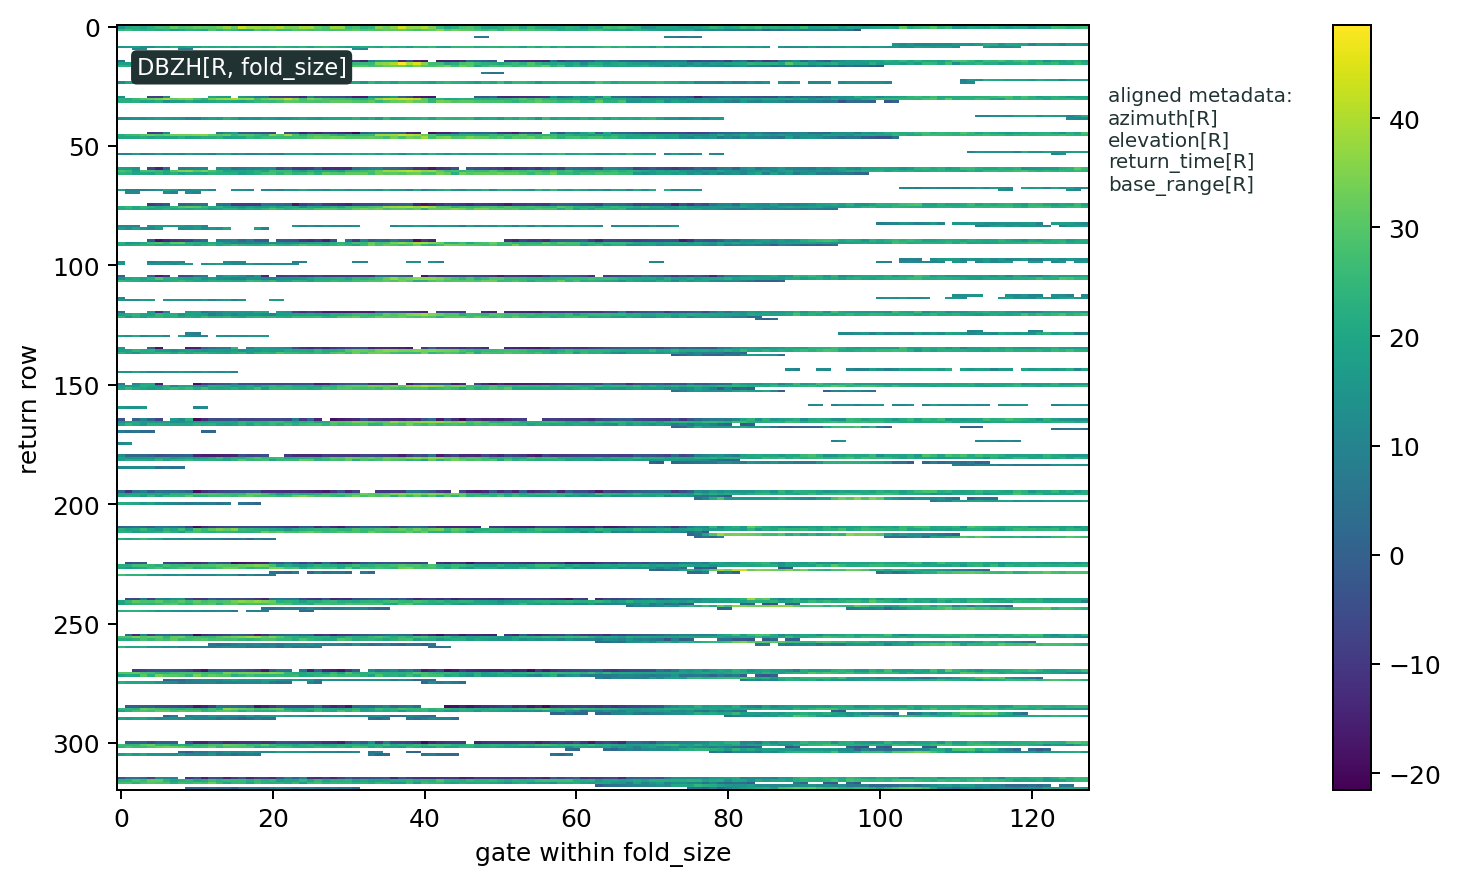
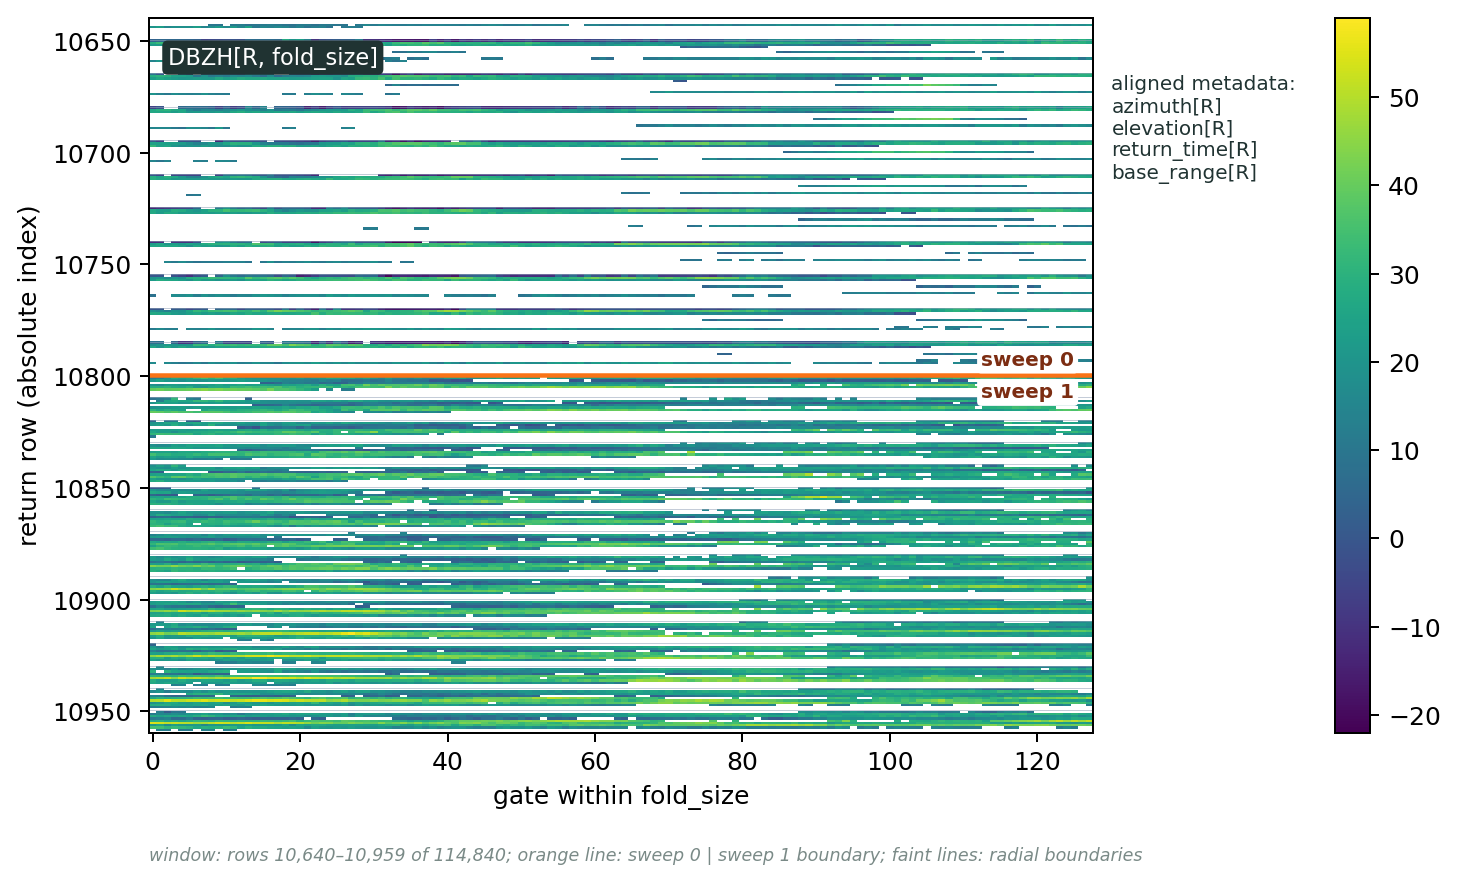
fix(docs): make raystack explainer panels match the guide
The ML tensor panel sampled rows 0-320, which sit entirely inside sweep 0,
so the "horizontal lines mark sweep boundaries" claim in the guide was never
actually shown. It now samples a 320-row window centred on the end of sweep 0,
draws and labels that boundary, marks radial boundaries faintly, and uses
absolute return-row indices on the y axis.

The fold-radial panel labelled the last gate as 1919 (the padded width) while
its header said 1,832 real gates, and the caption claimed the gray cells were
trailing padding when most of them are missing or below-threshold gates. The
strip now stops at the last real gate, the padding is drawn as an explicit
hatched region in both views, and the caption distinguishes padding from NaN
data gates.

Also reference the composite raystack-explainer.png from the guide (it was
committed and regenerated but never displayed), and drop the unused, stale
panel titles from the panel spec tuples.

diff --git a/docs/examples/raystack_explainer.py b/docs/examples/raystack_explainer.py
@@ -30,6 +30,7 @@ from numpy.typing import NDArray
 
 DEFAULT_SOURCE = "s3://unidata-nexrad-level2/2024/07/02/KABR/KABR20240702_000016_V06"
 MOMENT_NAMES = ("DBZH", "VRADH", "WRADH", "ZDR", "PHIDP", "RHOHV", "CCORH")
+PAD_COLOR = "#b45309"
 
 
 @dataclass(frozen=True)
@@ -228,18 +229,25 @@ def draw_radial_folding(
     cmap = plt.get_cmap("viridis").copy()
     cmap.set_bad(color="#e6ebe9")
 
+    n_total = flattened.shape[1]
+    # Gates >= actual_gates exist only to pad the final return row to fold_size.
+    pad_start_col = actual_gates % fold_size
+    has_padding = actual_gates < n_total
+
     strip_y0, strip_h = 0.78, 0.10
+    x_strip_pad = 0.05 + actual_gates / n_total * 0.9
     ax.imshow(
-        flattened,
-        extent=(0.05, 0.95, strip_y0, strip_y0 + strip_h),
+        flattened[:, :actual_gates],
+        extent=(0.05, x_strip_pad, strip_y0, strip_y0 + strip_h),
         aspect="auto",
         cmap=cmap,
         interpolation="nearest",
         zorder=2,
     )
-    n_total = flattened.shape[1]
     for chunk in range(1, n_chunks):
         x_pos = 0.05 + (chunk * fold_size) / n_total * 0.9
+        if x_pos >= x_strip_pad:
+            continue
         ax.plot(
             [x_pos, x_pos],
             [strip_y0, strip_y0 + strip_h],
@@ -247,6 +255,28 @@ def draw_radial_folding(
             linewidth=0.6,
             alpha=0.85,
             zorder=3,
+        )
+    if has_padding:
+        ax.add_patch(
+            Rectangle(
+                (x_strip_pad, strip_y0),
+                0.95 - x_strip_pad,
+                strip_h,
+                linewidth=1.0,
+                edgecolor=PAD_COLOR,
+                facecolor="none",
+                hatch="///",
+                zorder=4,
+            )
+        )
+        ax.text(
+            (x_strip_pad + 0.95) / 2,
+            strip_y0 - 0.04,
+            "pad",
+            fontsize=7,
+            color=PAD_COLOR,
+            ha="center",
+            va="top",
         )
     ax.add_patch(
         Rectangle(
@@ -256,7 +286,7 @@ def draw_radial_folding(
             linewidth=1.0,
             edgecolor="#315452",
             facecolor="none",
-            zorder=4,
+            zorder=5,
         )
     )
     ax.text(
@@ -268,9 +298,9 @@ def draw_radial_folding(
     )
     ax.text(0.05, strip_y0 - 0.04, "gate 0", fontsize=7, color="#50615f", ha="left", va="top")
     ax.text(
-        0.95,
+        x_strip_pad,
         strip_y0 - 0.04,
-        f"gate {n_total - 1}",
+        f"gate {actual_gates - 1:,}",
         fontsize=7,
         color="#50615f",
         ha="right",
@@ -287,10 +317,11 @@ def draw_radial_folding(
         va="center",
     )
 
-    stack_top, stack_h = 0.50, 0.40
+    stack_top, stack_h = 0.50, 0.36
+    stack_bottom = stack_top - stack_h
     ax.imshow(
         radial,
-        extent=(0.05, 0.95, stack_top - stack_h, stack_top),
+        extent=(0.05, 0.95, stack_bottom, stack_top),
         aspect="auto",
         cmap=cmap,
         interpolation="nearest",
@@ -328,13 +359,39 @@ def draw_radial_folding(
         fontsize=9,
         color="#203332",
     )
+
+    if has_padding:
+        x_pad = 0.05 + pad_start_col / fold_size * 0.9
+        ax.add_patch(
+            Rectangle(
+                (x_pad, stack_bottom),
+                0.95 - x_pad,
+                cell_h,
+                linewidth=1.0,
+                edgecolor=PAD_COLOR,
+                facecolor="none",
+                hatch="///",
+                zorder=5,
+            )
+        )
+        ax.annotate(
+            f"padding: last {n_total - actual_gates} cells of return {n_chunks - 1}",
+            xy=((x_pad + 0.95) / 2, stack_bottom),
+            xytext=((x_pad + 0.95) / 2, stack_bottom - 0.06),
+            ha="center",
+            va="top",
+            fontsize=7,
+            color=PAD_COLOR,
+            arrowprops={"arrowstyle": "-|>", "color": PAD_COLOR, "linewidth": 0.9},
+        )
     ax.text(
-        0.95,
-        stack_top - stack_h - 0.04,
-        "trailing pad cells (NaN) shown in gray",
+        0.05,
+        stack_bottom - 0.115,
+        "hatched: trailing padding past the last real gate; "
+        "gray: NaN gates (missing or below threshold)",
         fontsize=7,
         color="#7a8a87",
-        ha="right",
+        ha="left",
         va="top",
         style="italic",
     )
@@ -395,27 +452,74 @@ def draw_flat_schema(
 
 def draw_ml_tensor(
     ax: Axes,
+    sweeps: xr.Dataset,
     returns: xr.Dataset,
     moment: str,
     offsets: NDArray[np.int64],
     *,
     show_title: bool = True,
+    window_rows: int = 320,
 ) -> None:
-    """Draw a real moment matrix sample and its aligned metadata."""
+    """Draw a real moment matrix window straddling a sweep boundary."""
     if show_title:
         ax.set_title("4. ML tensor", loc="left", fontsize=12, fontweight="bold")
     data = np.asarray(returns[moment].values, dtype=np.float32)
-    sample_rows = min(320, data.shape[0])
-    sample_cols = min(returns.sizes["range"], data.shape[1])
-    sample = data[:sample_rows, :sample_cols]
+    n_rows = data.shape[0]
+    fold_size = min(returns.sizes["range"], data.shape[1])
 
-    im = ax.imshow(sample, aspect="auto", interpolation="nearest", cmap="viridis")
-    for offset in offsets:
-        if 0 < offset < sample_rows:
-            ax.axhline(offset - 0.5, color="white", linewidth=0.6, alpha=0.8)
+    # Centre the window on a real sweep boundary so the panel shows one.
+    boundary = next(
+        (int(off) for off in offsets[1:-1] if 0 < int(off) < n_rows),
+        None,
+    )
+    window = min(window_rows, n_rows)
+    if boundary is None:
+        row_start = 0
+    else:
+        row_start = min(max(0, boundary - window // 2), n_rows - window)
+    row_stop = row_start + window
+    sample = data[row_start:row_stop, :fold_size]
+
+    im = ax.imshow(
+        sample,
+        aspect="auto",
+        interpolation="nearest",
+        cmap="viridis",
+        extent=(-0.5, fold_size - 0.5, row_stop - 0.5, row_start - 0.5),
+    )
+
+    # Faint lines every ceil(max_gates / fold_size) rows: one physical radial.
+    max_gates = np.asarray(sweeps["max_gates"].values, dtype=np.int64)
+    for s_idx in range(max_gates.size):
+        chunks = max(1, int(np.ceil(max_gates[s_idx] / fold_size)))
+        s_start, s_stop = int(offsets[s_idx]), int(offsets[s_idx + 1])
+        first = s_start + chunks * int(np.ceil(max(row_start - s_start, 0) / chunks))
+        for row in range(first, min(s_stop, row_stop), chunks):
+            if row_start < row < row_stop:
+                ax.axhline(row - 0.5, color="#94a3b8", linewidth=0.4, alpha=0.55)
+
+    sweep_idx = None
+    if boundary is not None:
+        sweep_idx = int(np.searchsorted(offsets, boundary)) - 1
+        ax.axhline(boundary - 0.5, color="#f97316", linewidth=1.8)
+        for label, row_offset, valign in (
+            (f"sweep {sweep_idx}", -3, "bottom"),
+            (f"sweep {sweep_idx + 1}", 3, "top"),
+        ):
+            ax.text(
+                fold_size - 3,
+                boundary + row_offset,
+                label,
+                ha="right",
+                va=valign,
+                fontsize=8,
+                fontweight="bold",
+                color="#7c2d12",
+                bbox={"boxstyle": "round,pad=0.2", "facecolor": "white", "edgecolor": "none"},
+            )
 
     ax.set_xlabel("gate within fold_size")
-    ax.set_ylabel("return row")
+    ax.set_ylabel("return row (absolute index)")
     ax.text(
         1.02,
         0.92,
@@ -425,6 +529,23 @@ def draw_ml_tensor(
         va="top",
         fontsize=8,
         color="#203332",
+    )
+    boundary_note = (
+        f"orange line: sweep {sweep_idx} | sweep {sweep_idx + 1} boundary; "
+        if sweep_idx is not None
+        else ""
+    )
+    ax.text(
+        0.0,
+        -0.16,
+        f"window: rows {row_start:,}–{row_stop - 1:,} of {n_rows:,}; "
+        f"{boundary_note}faint lines: radial boundaries",
+        transform=ax.transAxes,
+        ha="left",
+        va="top",
+        fontsize=7,
+        color="#7a8a87",
+        style="italic",
     )
     ax.text(
         0.02,
@@ -476,7 +597,7 @@ def create_raystack_explainer(parts: RaystackParts, *, fold_size: int = 128) -> 
         fold_size,
     )
     draw_flat_schema(flat_axes[2], parts.vcps, parts.sweeps, parts.returns)
-    draw_ml_tensor(flat_axes[3], parts.returns, parts.moment, parts.offsets)
+    draw_ml_tensor(flat_axes[3], parts.sweeps, parts.returns, parts.moment, parts.offsets)
     fig.suptitle("Raystack: from NEXRAD L2 volume to flat training arrays", fontsize=16)
     return fig
 
@@ -486,12 +607,10 @@ def create_panel_figures(parts: RaystackParts, *, fold_size: int = 128) -> list[
     panel_specs = [
         (
             "physical-scan",
-            "1. Physical scan",
             lambda ax: draw_physical_scan(ax, parts.vcps, parts.sweeps, show_title=False),
         ),
         (
             "fold-radial",
-            "2. Fold one radial",
             lambda ax: draw_radial_folding(
                 ax,
                 parts.sweeps,
@@ -504,7 +623,6 @@ def create_panel_figures(parts: RaystackParts, *, fold_size: int = 128) -> list[
         ),
         (
             "flat-schema",
-            "3. Flat schema",
             lambda ax: draw_flat_schema(
                 ax,
                 parts.vcps,
@@ -515,9 +633,9 @@ def create_panel_figures(parts: RaystackParts, *, fold_size: int = 128) -> list[
         ),
         (
             "ml-tensor",
-            "4. ML tensor",
             lambda ax: draw_ml_tensor(
                 ax,
+                parts.sweeps,
                 parts.returns,
                 parts.moment,
                 parts.offsets,
@@ -527,7 +645,7 @@ def create_panel_figures(parts: RaystackParts, *, fold_size: int = 128) -> list[
     ]
 
     figures: list[tuple[str, Figure]] = []
-    for slug, _title, draw in panel_specs:
+    for slug, draw in panel_specs:
         fig, ax = plt.subplots(figsize=(8, 4.8), constrained_layout=True)
         draw(ax)
         figures.append((slug, fig))

diff --git a/docs/guides/raystack-format.md b/docs/guides/raystack-format.md
@@ -17,6 +17,8 @@ return. Moment data (`DBZH`, `VRADH`, `RHOHV`, …) lives in the `returns`
 table as 2-D arrays whose first axis matches the return-level metadata
 row-for-row.
 
+![Overview of the raystack format: physical volume, folding a radial, flat schema, and the resulting tensor.](../assets/raystack-explainer.png)
+
 ## Returns and folding
 
 A *return* is a fixed-width chunk of range gates from a single radial. The
@@ -116,18 +118,28 @@ moment values along its range gates.
 ![Physical scan panel showing a VCP with several sweeps from a KABR NEXRAD Level 2 volume.](../assets/raystack-explainer-panels/physical-scan.png)
 
 **Folding a radial.** Raystack splits each radial into fixed-width rows
-and keeps the metadata needed to place each row back in radar space.
+and keeps the metadata needed to place each row back in radar space. The
+1,832 gates of this radial fill returns 0–13 completely and the first 40
+gates of return 14; the hatched region is the trailing padding that fills
+return 14 out to `fold_size`. Padding is NaN, but so are gates that are
+missing or below the detection threshold — those are the gray cells
+scattered through the real part of the radial. Nothing in the moment array
+distinguishes the two, so use `sweeps["max_gates"]` when you need to know
+where the real gates end.
 
-![Radial folding panel showing range gates split into fixed-size return rows.](../assets/raystack-explainer-panels/fold-radial.png)
+![Radial folding panel showing range gates split into fixed-size return rows, with the trailing padding of the last row hatched.](../assets/raystack-explainer-panels/fold-radial.png)
 
 **Flat schema.** The hierarchy lives in three aligned tables —
 `vcps`, `sweeps`, `returns` — linked by `sweeps["num_returns"]`.
 
 ![Flat schema panel showing vcps, sweeps, and returns datasets.](../assets/raystack-explainer-panels/flat-schema.png)
 
-**Tensor view.** Each moment is a `(n_returns, fold_size)` matrix.
-Horizontal lines mark sweep boundaries. The 1-D metadata arrays line up
-row-for-row, so the same matrix is consumable as a tensor and
+**Tensor view.** Each moment is a `(n_returns, fold_size)` matrix. The
+panel below shows a 320-row window of `DBZH` centred on the end of sweep 0
+(row 10,800): the orange line is that sweep boundary, and the faint lines
+are radial boundaries — every 15 rows in sweep 0, every 10 in sweep 1,
+because the two sweeps have different `max_gates`. The 1-D metadata arrays
+line up row-for-row, so the same matrix is consumable as a tensor and
 interpretable as radar data.
 
-![ML tensor panel showing a DBZH return-by-range matrix and aligned metadata.](../assets/raystack-explainer-panels/ml-tensor.png)
+![ML tensor panel showing a window of the DBZH return-by-range matrix straddling the sweep 0 / sweep 1 boundary, with aligned metadata.](../assets/raystack-explainer-panels/ml-tensor.png)
